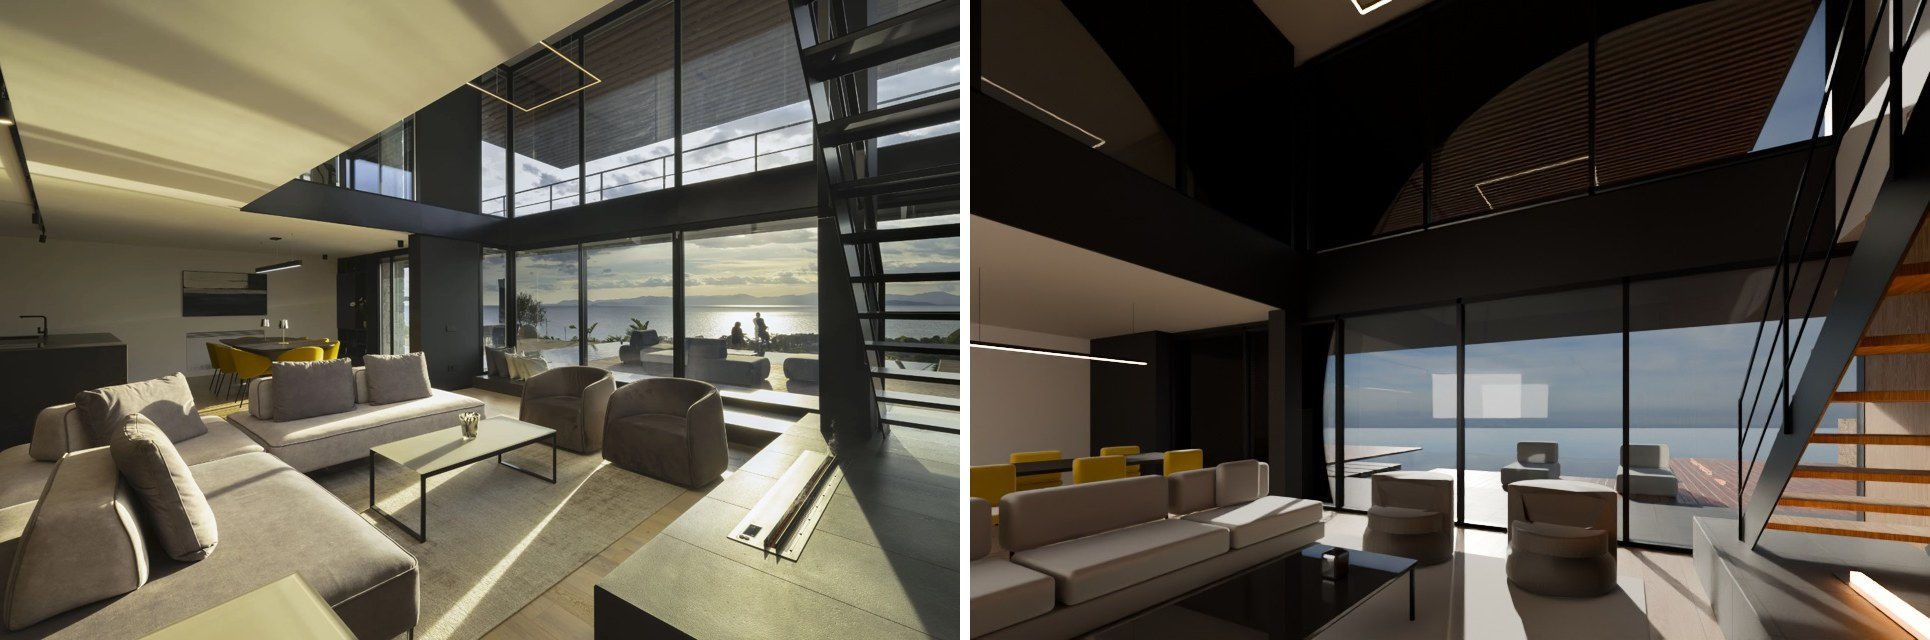
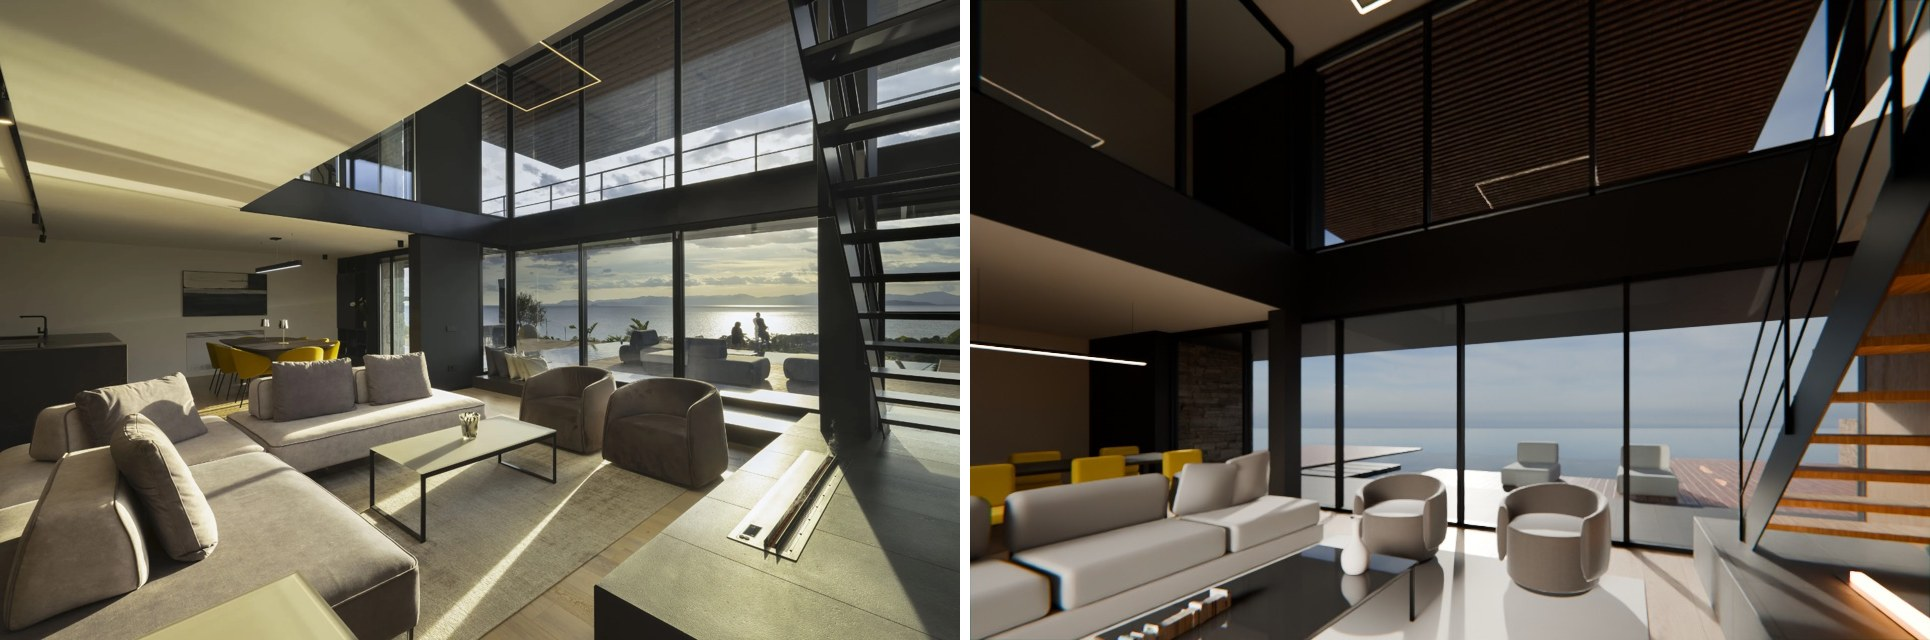
Render soggiorno: divani e poltrone nuovi, vetro senza riflessione interna, post-produzione
- divani componibili con sedute e schienali morbidi, grinze, cuscini decorativi
- poltrone a pozzetto in velluto (guscio continuo aperto davanti)
- tappeto a pelo corto, libri, vaso e pianta (Poly Haven CC0)
- vetro: riflesso solo sulla faccia esterna (via l'arco della riflessione
  totale interna); luci di riempimento invisibili nei riflessi
- post-produzione fotografica: bagliore, dispersione dell'obiettivo, vignettatura
  (compositor su CPU)

Claude-Session: https://claude.ai/code/session_01Ex56TisGibZp55SCprimt1

diff --git a/render/salon.py b/render/salon.py
@@ -38,22 +38,22 @@ def materials():
     M["smoked"] = lib.mat_color("VetroFume", (0.05, 0.05, 0.05), rough=0.02, metal=0.0, spec=1.0)
     M["marble"] = lib.mat_black_marble()
     M["bench"] = lib.mat_pbr("PietraNera", "granite_tile", size=3.0, tint=(0.25, 0.25, 0.26), rough_add=0.05, normal_strength=0.3)
-    M["slate"] = lib.mat_pbr("Lastre", "granite_tile", size=2.4, tint=(0.8, 0.8, 0.82), normal_strength=0.8)
+    M["slate"] = lib.mat_pbr("Lastre", "granite_tile", size=2.4, tint=(0.38, 0.38, 0.4), normal_strength=0.8)
     M["deck"] = lib.mat_pbr("Deck", "wood_floor_deck", size=2.0, rot_deg=90, hsv=(0.5, 0.75, 0.9))
     M["stone"] = lib.mat_pbr("Pietra", "rustic_stone_wall_02", size=2.6, hsv=(0.5, 0.7, 1.1))
     M["ground"] = lib.mat_pbr("Terreno", "dry_ground_rocks", size=6.0, hsv=(0.5, 0.85, 0.9))
     M["scrub"] = lib.mat_pbr("Macchia", "dry_ground_rocks", size=14.0, tint=(0.42, 0.48, 0.3), hsv=(0.5, 0.9, 0.75))
     M["sea"] = lib.mat_sea()
     M["water"] = lib.mat_water()
-    M["sofa"] = lib.mat_fabric("TessutoDivano", (0.42, 0.405, 0.385), bump=0.12, bump_scale=650)
+    M["sofa"] = lib.mat_fabric("TessutoDivano", (0.3, 0.29, 0.275), bump=0.12, bump_scale=650)
     M["sofa_dark"] = lib.mat_fabric("TessutoScuro", (0.34, 0.32, 0.3))
-    M["velvet"] = lib.mat_pbr("VellutoPoltrone", "velour_velvet", size=0.8, tint=(0.33, 0.26, 0.21), hsv=(0.08, 0.15, 1.0), normal_strength=0.4)
+    M["velvet"] = lib.mat_pbr("VellutoPoltrone", "velour_velvet", size=0.8, tint=(0.22, 0.17, 0.14), hsv=(0.08, 0.15, 1.0), normal_strength=0.4)
     for k in ("velvet",):
         bsdf = M[k].node_tree.nodes["Principled BSDF"]
         bsdf.inputs["Sheen Weight"].default_value = 0.9
         bsdf.inputs["Sheen Roughness"].default_value = 0.35
     M["mustard"] = lib.mat_fabric("VellutoSenape", (0.62, 0.42, 0.05), sheen=0.9, rough=0.7)
-    M["rug"] = lib.mat_fabric("Tappeto", (0.62, 0.6, 0.56), rough=0.95, sheen=0.4, bump=0.25, bump_scale=420)
+    M["rug"] = lib.mat_rug("Tappeto", (0.5, 0.48, 0.44))
     M["outdoor"] = lib.mat_fabric("TessutoEsterno", (0.32, 0.32, 0.31), rough=0.95, sheen=0.2)
     M["led"] = lib.mat_emission("LED", (1.0, 0.78, 0.55), 6)
     M["flame"] = lib.mat_emission("Fiamma", (1.0, 0.36, 0.08), 18)
@@ -170,57 +170,77 @@ def living(M):
         box(f"TavGamba{x}{z}", x - 0.012, x + 0.012, 0.0, 0.36, z - 0.012, z + 0.012, M["steel"], bevel=0.001)
     for z in (2.98, 3.72):
         box(f"TavTraversa{z}", 2.18, 3.42, 0.34, 0.36, z - 0.012, z + 0.012, M["steel"], bevel=0.001)
-    box("Vaso", 2.5, 2.62, 0.38, 0.52, 3.2, 3.32, M["smoked"], bevel=0.02)
+    # oggetti sul tavolino e sulla panca (Poly Haven, CC0)
+    lib.append_model("decorative_book_set_01", (3.05, 0.38, 3.5), rot_deg=8, scale=0.3)
+    lib.append_model("ceramic_vase_01", (2.45, 0.38, 3.2), rot_deg=0, scale=0.8)
+    lib.append_model("potted_plant_04", (3.85, 0.42, 0.65), rot_deg=30, scale=1.0)
 
     # Divano componibile basso (schienale a sud, guarda il camino)
     sofa(M, "DivanoA", x0=1.15, x1=4.25, z_back=5.55, depth=1.0, facing="north")
     # Poltrone in velluto vicino alla vetrata, rivolte verso il soggiorno
-    armchair(M, "PoltronaN", 1.15, 2.25)
-    armchair(M, "PoltronaS", 1.15, 3.6)
+    armchair(M, "PoltronaN", 1.2, 2.3, facing_deg=-10)
+    armchair(M, "PoltronaS", 1.2, 3.65, facing_deg=10)
 
 
 def sofa(M, name, x0, x1, z_back, depth, facing, xw=None):
-    seat_h, base_h, back_h = 0.42, 0.22, 0.78
-    if facing == "north":
-        za, zb = z_back - depth, z_back
-        rounded_block(f"{name}_Base", x0, x1, 0.04, base_h, za + 0.02, zb, M["sofa_dark"], radius=0.03)
-        n = 3
-        w = (x1 - x0) / n
-        for i in range(n):
-            cushion(f"{name}_Seduta{i}", x0 + i * w + 0.01, x0 + (i + 1) * w - 0.01, base_h, seat_h, za, zb - 0.22, M["sofa"], puff=0.04)
-            cushion(f"{name}_Schienale{i}", x0 + i * w + 0.02, x0 + (i + 1) * w - 0.02, seat_h - 0.02, back_h, zb - 0.26, zb - 0.02, M["sofa"], puff=0.05, radius=0.08)
-        cushion(f"{name}_Cuscino", x0 + 0.25, x0 + 0.7, seat_h, seat_h + 0.42, zb - 0.38, zb - 0.24, M["sofa_dark"], puff=0.1, radius=0.09)
-    else:  # verso ovest, schienale a est in xw
-        xa, xb = xw - depth, xw
-        za, zb = x0, x1  # qui x0/x1 sono le z
-        rounded_block(f"{name}_Base", xa + 0.02, xb, 0.04, base_h, za, zb, M["sofa_dark"], radius=0.03)
-        n = 3
-        w = (zb - za) / n
-        for i in range(n):
-            cushion(f"{name}_Seduta{i}", xa, xb - 0.22, base_h, seat_h, za + i * w + 0.01, za + (i + 1) * w - 0.01, M["sofa"], puff=0.04)
-            cushion(f"{name}_Schienale{i}", xb - 0.26, xb - 0.02, seat_h - 0.02, back_h, za + i * w + 0.02, za + (i + 1) * w - 0.02, M["sofa"], puff=0.05, radius=0.08)
-        cushion(f"{name}_Cuscino", xb - 0.38, xb - 0.24, seat_h, seat_h + 0.42, za + 0.3, za + 0.75, M["sofa_dark"], puff=0.1, radius=0.09)
+    """Divano componibile basso come nelle foto: base, sedute morbide con piping, schienali inclinati."""
+    seat_h, base_h, back_top = 0.43, 0.2, 0.8
+    za, zb = z_back - depth, z_back
+    base = lib.rounded_block(f"{name}_Base", x0, x1, 0.02, base_h, za + 0.03, zb, M["sofa_dark"], radius=0.03, segments=3)
+    n = 3
+    w = (x1 - x0) / n
+    import random
+    rnd = random.Random(hash(name) & 0xFFFF)
+    for i in range(n):
+        a, b = x0 + i * w + 0.008, x0 + (i + 1) * w - 0.008
+        seat = cushion(f"{name}_Seduta{i}", a, b, base_h - 0.01, seat_h, za + 0.01, zb - 0.2, M["sofa"], puff=0.06, radius=0.07)
+        lib.wrinkles(seat, 0.008, 0.18)
+        back = cushion(f"{name}_Schienale{i}", a + 0.01, b - 0.01, seat_h - 0.03, back_top, zb - 0.27, zb - 0.03, M["sofa"], puff=0.09, radius=0.1)
+        lib.wrinkles(back, 0.012, 0.2)
+        # schienale appena inclinato all'indietro e non perfettamente allineato
+        pivot = B((a + b) / 2, seat_h, zb - 0.15)
+        back.rotation_euler = (math.radians(-9 + rnd.uniform(-2, 2)), 0, math.radians(rnd.uniform(-1.5, 1.5)))
+        back.location = pivot - back.rotation_euler.to_matrix() @ pivot + back.location
+    # cuscini decorativi appoggiati allo schienale
+    lib.pillow(f"{name}_Cuscino1", x0 + 0.42, seat_h + 0.24, zb - 0.38, 0.5, 0.48, 0.2, M["sofa_dark"], rot=(math.radians(-12), math.radians(8), math.radians(4)))
+    lib.pillow(f"{name}_Cuscino2", x0 + 0.85, seat_h + 0.22, zb - 0.4, 0.46, 0.44, 0.18, M["sofa"], rot=(math.radians(-14), math.radians(-6), math.radians(-5)))
+    lib.pillow(f"{name}_Cuscino3", x1 - 0.5, seat_h + 0.23, zb - 0.38, 0.5, 0.46, 0.2, M["sofa_dark"], rot=(math.radians(-10), math.radians(-10), math.radians(6)))
+    return base
 
 
-def armchair(M, name, cx, cz):
-    """Poltrona a pozzetto in velluto (forma a botte), seduta morbida."""
-    shell = cylinder(f"{name}_Guscio", cx, cz, 0.04, 0.72, 0.42, M["velvet"], segments=48, bevel=0.06)
-    shell.modifiers["Bevel"].limit_method = "NONE"
-    shell.modifiers["Bevel"].segments = 5
-    sol = shell.modifiers.new("Spessore", "SOLIDIFY")
-    sol.thickness = 0.1
-    # apertura verso est (davanti), con taglio dello schienale
-    cutter = box(f"{name}_Taglio", cx, cx + 0.6, 0.38, 1.0, cz - 0.6, cz + 0.6, None, bevel=0)
-    boolean = shell.modifiers.new("Taglio", "BOOLEAN")
-    boolean.object = cutter
-    boolean.operation = "DIFFERENCE"
-    cutter.hide_render = True
-    cutter.hide_viewport = True
+def armchair(M, name, cx, cz, facing_deg=0.0):
+    """Poltrona a pozzetto in velluto: guscio continuo aperto davanti (più alto dietro), seduta morbida.
+    facing_deg = direzione dell'apertura (0 = verso est, +x)."""
+    import bmesh
+    from mathutils import Vector
+    bm = bmesh.new()
+    r_out, thick = 0.43, 0.12
+    open_half = math.radians(52)
+    n = 40
+    rings = []
+    for i in range(n + 1):
+        a = open_half + (2 * math.pi - 2 * open_half) * i / n  # da un lato dell'apertura all'altro
+        back = 0.5 - 0.5 * math.cos(a)  # 0 davanti, 1 dietro
+        top = 0.56 + 0.16 * back
+        prof = [(r_out - thick, 0.24), (r_out, 0.06), (r_out, top - 0.06), (r_out - 0.03, top), (r_out - thick + 0.02, top - 0.02)]
+        ang = a + math.radians(facing_deg)
+        ring = [bm.verts.new(B(cx + math.cos(ang) * r, y, cz - math.sin(ang) * r)) for r, y in prof]
+        rings.append(ring)
+    for i in range(n):
+        for j in range(len(rings[i])):
+            k = (j + 1) % len(rings[i])
+            bm.faces.new([rings[i][j], rings[i][k], rings[i + 1][k], rings[i + 1][j]])
+    bm.faces.new(list(reversed(rings[0])))
+    bm.faces.new(rings[-1])
+    bmesh.ops.recalc_face_normals(bm, faces=bm.faces)
+    shell = lib.mesh_obj(f"{name}_Guscio", bm, M["velvet"], smooth=True)
     sub = shell.modifiers.new("Sub", "SUBSURF")
-    sub.levels = sub.render_levels = 1
-    seat = cylinder(f"{name}_Seduta", cx + 0.02, cz, 0.04, 0.44, 0.36, M["velvet"], segments=48, bevel=0.05)
+    sub.levels = sub.render_levels = 2
+    lib.wrinkles(shell, 0.005, 0.1)
+    seat = cylinder(f"{name}_Seduta", cx, cz, 0.06, 0.45, 0.35, M["velvet"], segments=48, bevel=0.07)
     seat.modifiers["Bevel"].limit_method = "NONE"
-    seat.modifiers["Bevel"].segments = 5
+    seat.modifiers["Bevel"].segments = 6
+    base = cylinder(f"{name}_Base", cx, cz, 0.0, 0.07, 0.3, M["black"], segments=48, bevel=0.01)
 
 
 def dining_kitchen(M):
@@ -340,7 +360,7 @@ def build(preview=False):
     lib.reset(samples=48 if preview else 640, res=(960, 640) if preview else (1800, 1200))
     hdri = lib.ASSETS / "hdri" / "white_cliff_top_4k.hdr"
     # Il sole dell'HDRI è a NO: ruotando di 67° finisce a ovest-sudovest, sopra il mare.
-    lib.world_hdri(hdri, rotation_deg=67, strength=1.0, background_strength=0.55)
+    lib.world_hdri(hdri, rotation_deg=67, strength=1.0, background_strength=0.85)
     el = math.radians(23.2)
     az = math.radians(135 + 67)
     sun_dir = (math.cos(az) * math.cos(el), math.sin(az) * math.cos(el), math.sin(el))
@@ -353,10 +373,12 @@ def build(preview=False):
     ceiling(M)
     exterior(M)
     portals()
+    lib.post()
     # Camera come nella foto 08: dal fondo del soggiorno verso la vetrata, obiettivo grandangolare
     lib.camera(pos=(4.35, 1.28, 1.75), target=(0.0, 1.28, 3.7), lens=15.0, shift=(0.0, 0.1))
     # luce di riempimento morbida alle spalle della camera (come il flash di rimbalzo del fotografo)
-    lib.area_light("Riempimento", (8.5, 2.2, 6.5), 3.0, 110, color=(1.0, 0.93, 0.85), direction=(-1, -0.15, -0.4), size_y=2.0)
+    fill = lib.area_light("Riempimento", (8.5, 2.0, 4.0), 3.0, 70, color=(1.0, 0.93, 0.85), direction=(-1, -0.35, 0.0), size_y=1.6)
+    fill.data.spread = math.radians(50)  # non deve raggiungere lo sbalzo esterno attraverso il vetro
     return M
 
 

diff --git a/render/lib.py b/render/lib.py
@@ -50,7 +50,7 @@ def reset(samples=256, res=(1600, 1067)):
     sc.render.film_transparent = False
     sc.view_settings.view_transform = "AgX"
     sc.view_settings.look = "AgX - Medium High Contrast"
-    sc.view_settings.exposure = 1.0
+    sc.view_settings.exposure = 1.15
     sc.render.image_settings.file_format = "JPEG"
     sc.render.image_settings.quality = 92
     return sc
@@ -233,7 +233,17 @@ def mat_glass(name="Vetro", tint=(0.92, 0.95, 0.95)):
     fres.inputs["IOR"].default_value = 1.5
     gl = nt.nodes.new("ShaderNodeBsdfGlossy")
     gl.inputs["Roughness"].default_value = 0.0
-    nt.links.new(fres.outputs["Fac"], mx2.inputs["Fac"])
+    # riflesso solo sulla faccia esterna della lastra: niente riflessione totale interna
+    geo = nt.nodes.new("ShaderNodeNewGeometry")
+    front = nt.nodes.new("ShaderNodeMath")
+    front.operation = "SUBTRACT"
+    front.inputs[0].default_value = 1.0
+    nt.links.new(geo.outputs["Backfacing"], front.inputs[1])
+    fac = nt.nodes.new("ShaderNodeMath")
+    fac.operation = "MULTIPLY"
+    nt.links.new(fres.outputs["Fac"], fac.inputs[0])
+    nt.links.new(front.outputs["Value"], fac.inputs[1])
+    nt.links.new(fac.outputs["Value"], mx2.inputs["Fac"])
     nt.links.new(tr.outputs["BSDF"], mx2.inputs[1])
     nt.links.new(gl.outputs["BSDF"], mx2.inputs[2])
     final = nt.nodes.new("ShaderNodeMixShader")
@@ -257,13 +267,14 @@ def mat_emission(name, color, strength):
     return m
 
 
-def mat_fabric(name, color, rough=0.85, sheen=0.6, bump_scale=900.0, bump=0.08):
+def mat_fabric(name, color, rough=0.85, sheen=0.25, bump_scale=900.0, bump=0.08):
     """Tessuto: base opaca, sheen per la peluria, micro-trama con rumore."""
     m, nt, b = _nodes(name)
     b.inputs["Base Color"].default_value = (*color, 1)
     b.inputs["Roughness"].default_value = rough
     b.inputs["Sheen Weight"].default_value = sheen
     b.inputs["Sheen Roughness"].default_value = 0.5
+    b.inputs["Sheen Tint"].default_value = (*[min(1.0, c * 1.6) for c in color], 1)
     b.inputs["Specular IOR Level"].default_value = 0.3
     tc = nt.nodes.new("ShaderNodeTexCoord")
     noise = nt.nodes.new("ShaderNodeTexNoise")
@@ -274,6 +285,34 @@ def mat_fabric(name, color, rough=0.85, sheen=0.6, bump_scale=900.0, bump=0.08):
     bp.inputs["Strength"].default_value = bump
     nt.links.new(noise.outputs["Fac"], bp.inputs["Height"])
     nt.links.new(bp.outputs["Normal"], b.inputs["Normal"])
+    return m
+
+
+def mat_rug(name, color):
+    """Tappeto a pelo corto: variazione di colore a chiazze, fibre fini, bordo leggermente più scuro."""
+    m, nt, b = _nodes(name)
+    tc = nt.nodes.new("ShaderNodeTexCoord")
+    big = nt.nodes.new("ShaderNodeTexNoise")
+    big.inputs["Scale"].default_value = 3.0
+    big.inputs["Detail"].default_value = 3
+    nt.links.new(tc.outputs["Object"], big.inputs["Vector"])
+    ramp = nt.nodes.new("ShaderNodeValToRGB")
+    ramp.color_ramp.elements[0].color = (color[0] * 0.85, color[1] * 0.85, color[2] * 0.85, 1)
+    ramp.color_ramp.elements[1].color = (color[0] * 1.1, color[1] * 1.1, color[2] * 1.08, 1)
+    nt.links.new(big.outputs["Fac"], ramp.inputs["Fac"])
+    nt.links.new(ramp.outputs["Color"], b.inputs["Base Color"])
+    fib = nt.nodes.new("ShaderNodeTexNoise")
+    fib.inputs["Scale"].default_value = 1400
+    fib.inputs["Detail"].default_value = 1
+    nt.links.new(tc.outputs["Object"], fib.inputs["Vector"])
+    bp = nt.nodes.new("ShaderNodeBump")
+    bp.inputs["Strength"].default_value = 0.35
+    nt.links.new(fib.outputs["Fac"], bp.inputs["Height"])
+    nt.links.new(bp.outputs["Normal"], b.inputs["Normal"])
+    b.inputs["Roughness"].default_value = 1.0
+    b.inputs["Sheen Weight"].default_value = 0.8
+    b.inputs["Sheen Roughness"].default_value = 0.6
+    b.inputs["Specular IOR Level"].default_value = 0.2
     return m
 
 
@@ -466,6 +505,8 @@ def area_light(name, pos, size, strength, color=(1.0, 0.82, 0.62), direction=(0,
     ob.location = B(*pos)
     d = B(*direction) - B(0, 0, 0)
     ob.rotation_euler = d.to_track_quat("-Z", "Y").to_euler()
+    ob.visible_glossy = False  # la sorgente non si vede nei riflessi (vetri, marmo)
+    ob.visible_camera = False
     return ob
 
 
@@ -473,3 +514,108 @@ def render(path):
     sc = bpy.context.scene
     sc.render.filepath = str(path)
     bpy.ops.render.render(write_still=True)
+
+
+# ---------------------------------------------------------------- dettagli e post-produzione
+
+def pillow(name, cx, cy, cz, w, h, t, material, rot=(0, 0, 0), collection=None):
+    """Cuscino decorativo con angoli pizzicati (cubo suddiviso e gonfiato). cx, cy, cz = centro."""
+    bm = bmesh.new()
+    bmesh.ops.create_cube(bm, size=1.0)
+    bmesh.ops.subdivide_edges(bm, edges=bm.edges[:], cuts=6, use_grid_fill=True)
+    for v in bm.verts:
+        x, y, z = v.co
+        # gonfio al centro, sottile ai bordi
+        k = (1 - (2 * x) ** 2) * (1 - (2 * z) ** 2)
+        v.co = Vector((x * w, y * t * (0.25 + 0.75 * max(0.0, k)), z * h))
+    ob = mesh_obj(name, bm, material, smooth=True, collection=collection)
+    sub = ob.modifiers.new("Sub", "SUBSURF")
+    sub.levels = sub.render_levels = 2
+    ob.location = B(cx, cy, cz)
+    ob.rotation_euler = rot
+    return ob
+
+
+def wrinkles(ob, strength=0.006, scale=0.12):
+    """Grinze leggere del tessuto: Displace con rumore."""
+    tex = bpy.data.textures.new(f"{ob.name}_grinze", "CLOUDS")
+    tex.noise_scale = scale
+    tex.noise_depth = 2
+    d = ob.modifiers.new("Grinze", "DISPLACE")
+    d.texture = tex
+    d.strength = strength
+    d.mid_level = 0.5
+    return d
+
+
+def append_model(asset_id, pos, rot_deg=0.0, scale=1.0, collection=None):
+    """Importa un modello Poly Haven scaricato con fetch_assets.py e lo posiziona (coordinate villa)."""
+    d = ASSETS / "models" / asset_id
+    blend = next(d.glob("*.blend"))
+    with bpy.data.libraries.load(str(blend), link=False) as (src, dst):
+        dst.objects = list(src.objects)
+    root = bpy.data.objects.new(f"{asset_id}_root", None)
+    _link(root, collection)
+    for ob in dst.objects:
+        if ob is None:
+            continue
+        _link(ob, collection)
+        if ob.parent is None:
+            ob.parent = root
+    root.location = B(*pos)
+    root.rotation_euler = (0, 0, math.radians(rot_deg))
+    root.scale = (scale, scale, scale)
+    return root
+
+
+def post(glare=0.04, dispersion=0.012, vignette=0.28):
+    """Resa fotografica: bagliore delle luci forti, leggera dispersione dell'obiettivo, vignettatura."""
+    sc = bpy.context.scene
+    sc.render.compositor_device = "CPU"  # nessuna GPU/OpenGL necessaria
+    ng = bpy.data.node_groups.new("Post", "CompositorNodeTree")
+    sc.compositing_node_group = ng
+    ng.interface.new_socket("Image", in_out="OUTPUT", socket_type="NodeSocketColor")
+    out = ng.nodes.new("NodeGroupOutput")
+    rl = ng.nodes.new("CompositorNodeRLayers")
+    g = ng.nodes.new("CompositorNodeGlare")
+    g.inputs["Type"].default_value = "Fog Glow"
+    g.inputs["Threshold"].default_value = 1.2
+    g.inputs["Strength"].default_value = glare
+    g.inputs["Size"].default_value = 0.6
+    ng.links.new(rl.outputs["Image"], g.inputs["Image"])
+    lens = ng.nodes.new("CompositorNodeLensdist")
+    lens.inputs["Dispersion"].default_value = dispersion
+    lens.inputs["Distortion"].default_value = 0.0
+    ng.links.new(g.outputs["Image"], lens.inputs["Image"])
+    el = ng.nodes.new("CompositorNodeEllipseMask")
+    el.inputs["Size"].default_value = (0.95, 0.95)
+    bl = ng.nodes.new("CompositorNodeBlur")
+    bl.inputs["Size"].default_value = (300, 300)
+    ng.links.new(el.outputs["Mask"], bl.inputs["Image"])
+    mx = ng.nodes.new("ShaderNodeMix")
+    mx.data_type = "RGBA"
+    mx.blend_type = "MULTIPLY"
+    mx.inputs["Factor"].default_value = vignette
+    ng.links.new(lens.outputs["Image"], mx.inputs["A"])
+    inv = ng.nodes.new("ShaderNodeMix")
+    inv.data_type = "RGBA"
+    inv.inputs["Factor"].default_value = 1.0
+    inv.inputs["A"].default_value = (0, 0, 0, 1)
+    ng.links.new(bl.outputs["Image"], inv.inputs["B"])
+    ng.links.new(inv.outputs["Result"], mx.inputs["B"])
+    # dove la maschera vale 1 il fattore di moltiplicazione deve lasciare l'immagine invariata
+    mx2 = ng.nodes.new("ShaderNodeMix")
+    mx2.data_type = "RGBA"
+    mx2.inputs["Factor"].default_value = vignette
+    ng.links.new(lens.outputs["Image"], mx2.inputs["A"])
+    mul = ng.nodes.new("ShaderNodeMix")
+    mul.data_type = "RGBA"
+    mul.blend_type = "MULTIPLY"
+    mul.inputs["Factor"].default_value = 1.0
+    ng.links.new(lens.outputs["Image"], mul.inputs["A"])
+    ng.links.new(bl.outputs["Image"], mul.inputs["B"])
+    ng.links.new(mul.outputs["Result"], mx2.inputs["B"])
+    ng.links.new(mx2.outputs["Result"], out.inputs["Image"])
+    for n in (mx, inv):
+        ng.nodes.remove(n)
+    return ng

diff --git a/render/fetch_assets.py b/render/fetch_assets.py
@@ -25,7 +25,11 @@ TEXTURES = {
 }
 MAPS = ["Diffuse", "Rough", "nor_gl", "Displacement"]
 HDRIS = {"white_cliff_top": "4k"}  # cielo e mare dalle vetrate, luce di fine pomeriggio
-MODELS = {}
+MODELS = {
+    "potted_plant_04": "pianta grassa in vaso bianco",
+    "ceramic_vase_01": "vaso in ceramica",
+    "decorative_book_set_01": "libri sul tavolino",
+}
 
 
 def get(url):
